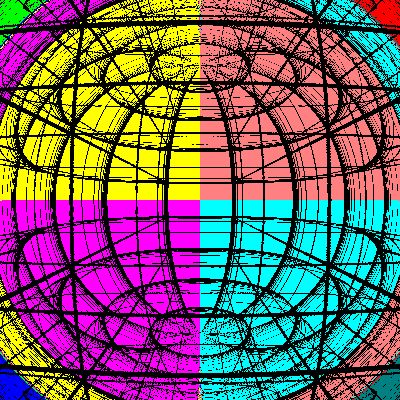
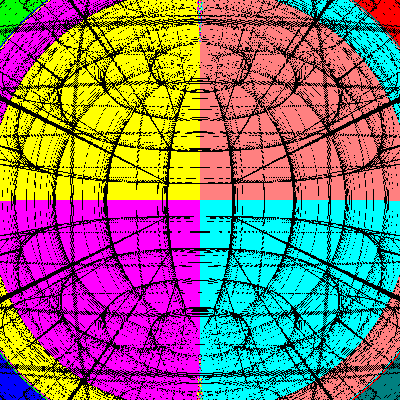
Pictures

diff --git a/WormholeRayTracer.py b/WormholeRayTracer.py
@@ -522,33 +522,33 @@ if __name__ == '__main__':
     path = os.getcwd() 
     Par = [0.43/1.42953, 1, 0] # M, rho, a parameters wormhole
     #initial position in spherical coord
-    for radius in range(1, 10):
-        initial_q = np.array([radius, np.pi, np.pi/2])
-        Grid_dimension = '3D'
-        mode = 0
-        Motion1, Photo1, CM1 = Simulate_DNeg(Smpl.Sympl_DNeg, Par, 0.01, 1500, initial_q, 20**2, 20**2, Grid_dimension, mode)
-        # Motion2, Photo2, CM2 = Simulate_DNeg(rk.runge_kutta, 0.01, 1000, 9, 20**2, 20**2)
-        # np.save('ray_solved', Motion1)
-        if mode ==  0:
-            plot_CM(CM1, ['H', 'b', 'B**2'], "Pictures/CM DNeg Sympl"+str(Par)+" "+str(initial_q)+".png", path)
-        # plot_CM(CM2, ['H', 'b', 'B**2'])
+    #for radius in range(10, 20):
+    initial_q = np.array([7, np.pi, np.pi/2])
+    Grid_dimension = '3D'
+    mode = 0
+    Motion1, Photo1, CM1 = Simulate_DNeg(Smpl.Sympl_DNeg, Par, 0.01, 1500, initial_q, 20**2, 20**2, Grid_dimension, mode)
+    # Motion2, Photo2, CM2 = Simulate_DNeg(rk.runge_kutta, 0.01, 1000, 9, 20**2, 20**2)
+    # np.save('ray_solved', Motion1)
+    if mode ==  0:
+        plot_CM(CM1, ['H', 'b', 'B**2'], "Pictures/CM DNeg Sympl"+str(Par)+" "+str(initial_q)+".png", path)
+    # plot_CM(CM2, ['H', 'b', 'B**2'])
     
-        #start = time.time()
-        #sol = simulate_raytracer(0.01, 100, [5, 3, 3], Nz = 20**2, Ny = 20**2, methode = 'RK45')
-        #end = time.time()
-        #print('Tijdsduur = ' + str(end-start))
-        #print(sol)
-        #np.save('raytracer2', sol)`
+    #start = time.time()
+    #sol = simulate_raytracer(0.01, 100, [5, 3, 3], Nz = 20**2, Ny = 20**2, methode = 'RK45')
+    #end = time.time()
+    #print('Tijdsduur = ' + str(end-start))
+    #print(sol)
+    #np.save('raytracer2', sol)`
     
-        if mode ==  0:
-            Geo_Sel = None
-            #Geo_Sel = [[348, 70], [296, 360], [171, 175], [85, 37], [10, 10]]
-            if Geo_Sel == None:
-                Geo_txt = ""
-            else:
-                Geo_txt = str(Geo_Sel)
-            gdsc(Motion1, Par, "Pictures/geodesics "+Geo_txt+" DNeg Sympl"+str(Par)+" "+str(initial_q)+".png", path, Geo_Sel)
-        # gdsc(Motion2)
+    if mode ==  0:
+        Geo_Sel = None
+        #Geo_Sel = [[348, 70], [296, 360], [171, 175], [85, 37], [10, 10]]
+        if Geo_Sel == None:
+            Geo_txt = ""
+        else:
+            Geo_txt = str(Geo_Sel)
+        gdsc(Motion1, Par, "Pictures/geodesics "+Geo_txt+" DNeg Sympl"+str(Par)+" "+str(initial_q)+".png", path, Geo_Sel)
+    # gdsc(Motion2)
     
-        cv2.imwrite(os.path.join(path, "Pictures/Image "+Grid_dimension+"Gr DNeg Sympl"+str(Par)+" "+str(initial_q)+".png"), 255*Photo1)
-        #cv2.imwrite(path + '/DNeg Kutta.png', 255*Photo2)
+    cv2.imwrite(os.path.join(path, "Pictures/Image "+Grid_dimension+"Gr DNeg Sympl"+str(Par)+" "+str(initial_q)+".png"), 255*Photo1)
+    #cv2.imwrite(path + '/DNeg Kutta.png', 255*Photo2)
